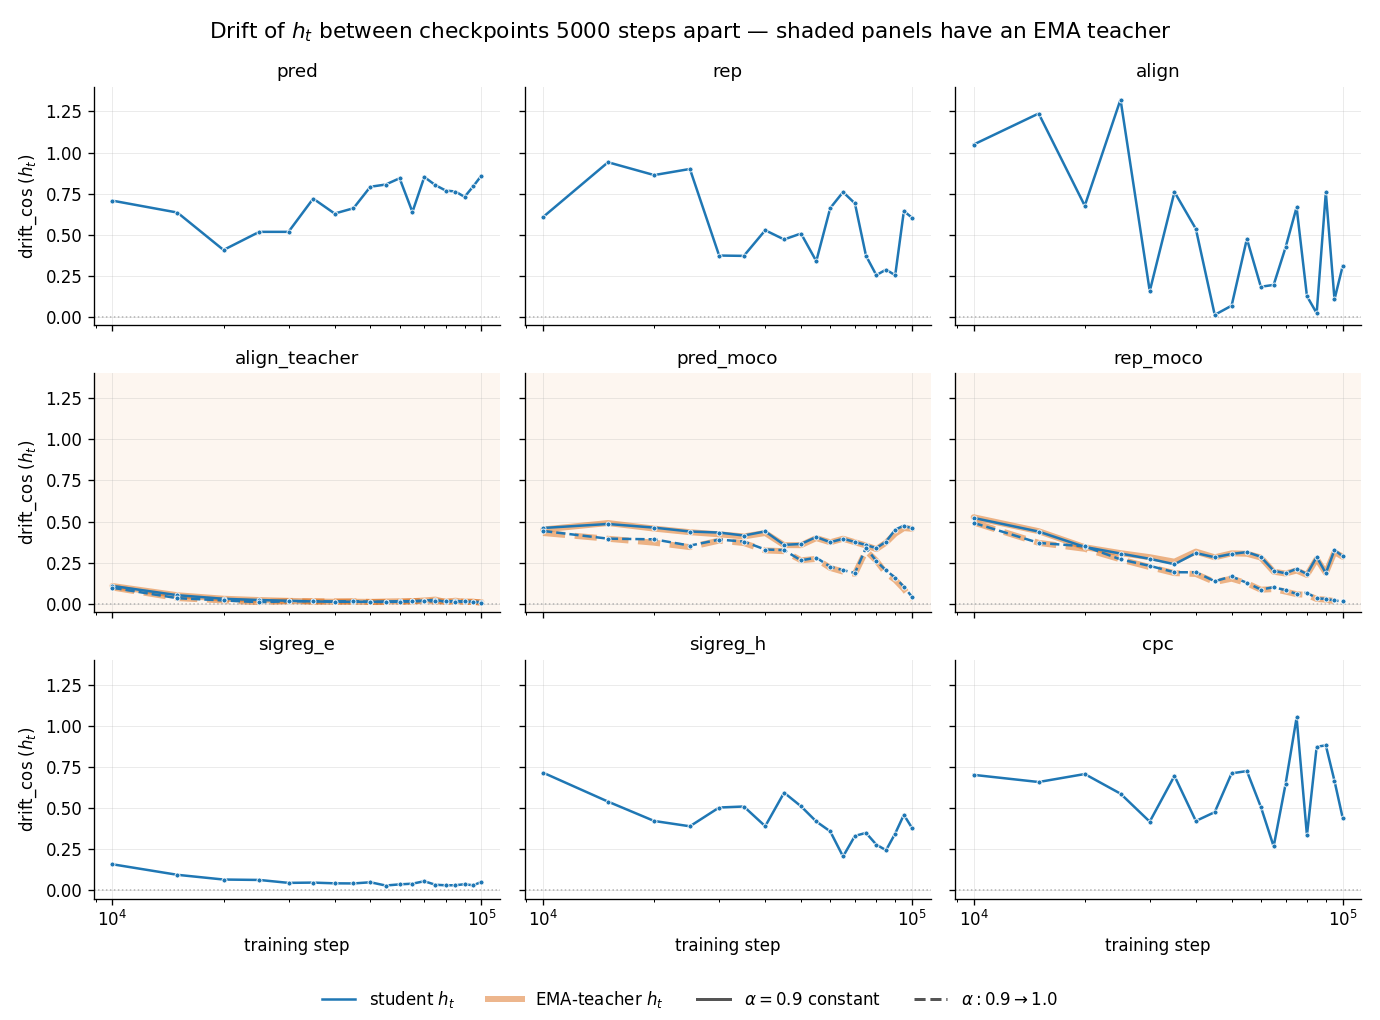
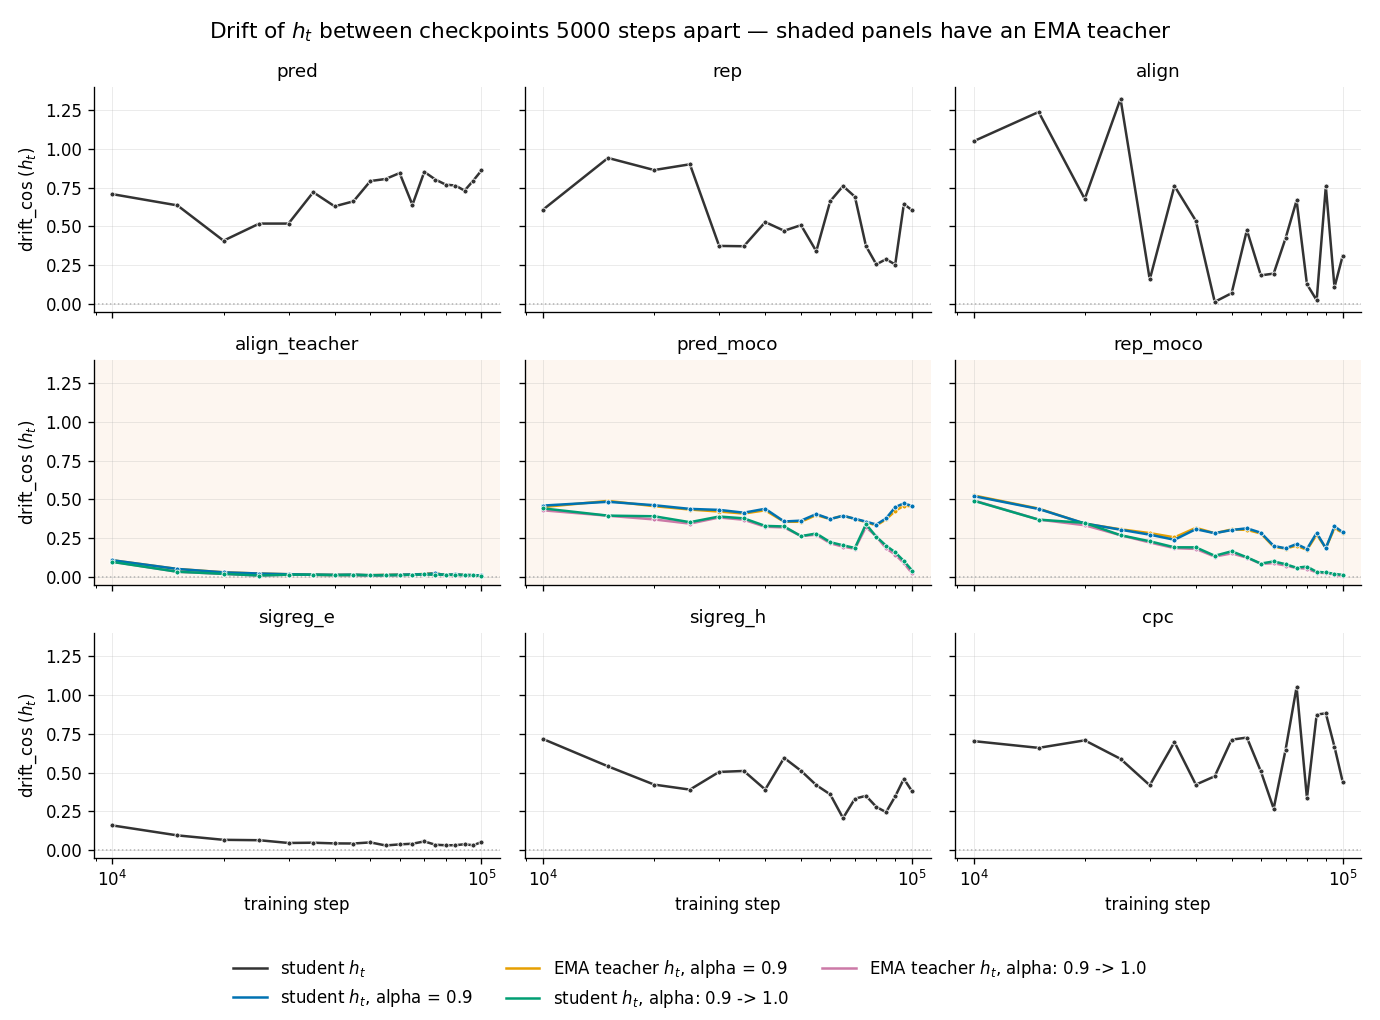
report(#388): readable headline figure, headline first, MoCo deltas on the named metric

diff --git a/experiments/2026-08-01_align_teacher_ema_schedule/scripts/make_plots.py b/experiments/2026-08-01_align_teacher_ema_schedule/scripts/make_plots.py
@@ -21,7 +21,11 @@ ask for and the report does not carry:
                           L_align panels: both align arms sit within ~10%
                           of the collinear floor on the time axis.
 
-Encoding used everywhere: colour = which encoder (student / EMA
+Encoding in drift_headline.png: one colour per named series, so a curve
+is identified from a single legend row. No crossed colour/line-style
+encoding, no band-under-line drawing.
+
+Encoding in the other figures: colour = which encoder (student / EMA
 teacher), line style = the α schedule (solid = constant, dashed =
 0.9 -> 1.0).
 """
@@ -126,17 +130,45 @@ def legend_handles(alphas):
 
 
 def plot_headline(series, out_png):
+    # One named series = one colour = one legend row. Okabe-Ito palette,
+    # distinct under the three common colour-vision deficiencies and where
+    # curves overlap. Equal line weight everywhere: no curve is a backdrop
+    # for another.
+    # Drawing order = list order; the student of each pair goes last so it
+    # stays visible where the two coincide. The caption names those spans.
+    named = [
+        (("const_0.9", "teacher_h"), "#E69F00",
+         "EMA teacher $h_t$, alpha = 0.9"),
+        (("sched_0.9_1.0", "teacher_h"), "#CC79A7",
+         "EMA teacher $h_t$, alpha: 0.9 -> 1.0"),
+        (("const_0.9", "student_h"), "#0072B2", "student $h_t$, alpha = 0.9"),
+        (("sched_0.9_1.0", "student_h"), "#009E73",
+         "student $h_t$, alpha: 0.9 -> 1.0"),
+    ]
+    legend_order = [2, 0, 3, 1]
+    solo_color, solo_label = "#333333", "student $h_t$"
+    kw = dict(lw=1.5, linestyle="-", marker="o", ms=3.0,
+              markeredgecolor="white", markeredgewidth=0.5)
+
     fig, axs = plt.subplots(3, 3, figsize=(11.5, 8.5), sharey=True,
                             sharex=True)
     axs = axs.ravel()
     for ax, arm in zip(axs, ARMS):
         ax.axhline(0.0, color="#b0b0b0", linestyle=":", linewidth=0.9)
-        for alpha, latent, pts in curves(series, arm, "adjacent"):
-            ax.plot([p[0] for p in pts], [p[1] for p in pts],
-                    color=COLOR[latent], linestyle=STYLE[alpha],
-                    **LATENT_KW[latent])
+        pts_of = {(a, l): p for a, l, p in curves(series, arm, "adjacent")}
         if arm in TEACHER_ARMS:
+            for z, (key, color, _) in enumerate(named):
+                pts = pts_of.get(key, [])
+                if not pts:
+                    print(f"  (missing {arm} {key})")
+                    continue
+                ax.plot([p[0] for p in pts], [p[1] for p in pts],
+                        color=color, zorder=2 + z, **kw)
             ax.set_facecolor("#fdf6f0")
+        else:
+            for pts in pts_of.values():
+                ax.plot([p[0] for p in pts], [p[1] for p in pts],
+                        color=solo_color, zorder=3, **kw)
         ax.set_title(arm, fontsize=11)
         ax.set_ylim(-0.05, 1.40)
         style_axes(ax, "drift_cos ($h_t$)")
@@ -145,12 +177,14 @@ def plot_headline(series, out_png):
     for i, ax in enumerate(axs):
         if i % 3:
             ax.set_ylabel("")
-    fig.legend(handles=legend_handles(["const_0.9", "sched_0.9_1.0"]),
-               loc="lower center", ncol=4, frameon=False, fontsize=10,
-               bbox_to_anchor=(0.5, -0.005))
+    handles = [Line2D([], [], color=solo_color, lw=1.5, label=solo_label)]
+    handles += [Line2D([], [], color=named[i][1], lw=1.5, label=named[i][2])
+                for i in legend_order]
+    fig.legend(handles=handles, loc="lower center", ncol=3, frameon=False,
+               fontsize=10, bbox_to_anchor=(0.5, -0.005))
     fig.suptitle("Drift of $h_t$ between checkpoints 5000 steps apart "
                  "— shaded panels have an EMA teacher", fontsize=13)
-    fig.tight_layout(rect=(0, 0.045, 1, 1))
+    fig.tight_layout(rect=(0, 0.085, 1, 1))
     fig.savefig(out_png, dpi=120)
     print(f"wrote {out_png}")
 

diff --git a/experiments/2026-08-01_align_teacher_ema_schedule/align_teacher_ema_schedule.md b/experiments/2026-08-01_align_teacher_ema_schedule/align_teacher_ema_schedule.md
@@ -6,18 +6,27 @@ from 1.0715 to 0.0531. Both align arms finish within 7% and 16% of the
 dimension-usage floor along the time axis, so that low drift is measured on a
 representation with almost nothing left to rotate.
 
-![L_align with the teacher as target](plots/align_fix.png)
+![Drift between checkpoints 5000 steps apart](plots/drift_headline.png)
 
 *`drift_cos` = 1 − mean cosine similarity between two sets of encoder latents
 `h_t`, on one fixed probe batch: a single ARMA draw of 64 series, 1024 raw
 timesteps, seed 20260722, shared by every checkpoint of every run. 0 means the
-representation did not move, 1 means orthogonal. Checkpoints 5000 steps apart,
-α = 0.9 constant, where α is the weight the teacher keeps on itself in
-`θ_teacher ← α·θ_teacher + (1 − α)·θ_student`, applied after every optimizer
-step. Purple: the earlier `align` arm, whose target was the student's own
-stop-gradient `sg(h_{t+1})`. Blue: `align_teacher`, target = EMA teacher
-`h_{t+1}`. The orange band is the EMA-teacher latent of the same run; it lies
-under the student curve.*
+representation did not move, 1 means orthogonal. Here each checkpoint is
+compared to its predecessor 5000 steps earlier. α is the weight the teacher
+keeps on itself in `θ_teacher ← α·θ_teacher + (1 − α)·θ_student`, applied after
+every optimizer step. One panel per loss term, same axes for all nine. Shaded
+panels have an EMA teacher and carry four named curves; the other six have no
+teacher and carry one. In every teacher panel the EMA-teacher curve lies under
+its student curve for the whole run, within a line width: orange under blue for
+α = 0.9, pink under green for the schedule. The two α settings separate from
+about 40k on `pred_moco` and `rep_moco`, and stay together on `align_teacher`.*
+
+![L_align with the teacher as target](plots/align_fix.png)
+
+*Same probe and same 5000-step spacing, α = 0.9 constant. Purple: the earlier
+`align` arm, whose target was the student's own stop-gradient `sg(h_{t+1})`.
+Blue: `align_teacher`, target = EMA teacher `h_{t+1}`. The orange band is the
+EMA-teacher latent of the same run; it lies under the student curve.*
 
 ![Dimension usage](plots/supporting/dim_usage.png)
 
@@ -34,13 +43,7 @@ One seed per arm and one probe batch, so every ratio here is a single
 measurement without a spread. No downstream forecasting evaluation was run in
 this experiment.
 
-## All arms, same probe
-
-![Drift between checkpoints 5000 steps apart](plots/drift_headline.png)
-
-*One panel per loss term, student `h_t` in blue, EMA-teacher `h_t` as the orange
-band beneath it. Shaded panels have a teacher. Solid is α = 0.9 constant,
-dashed is α: 0.9 → 1.0.*
+## Same probe, other windows
 
 ![Cumulative drift away from the 5k checkpoint](plots/cumulative_drift.png)
 
@@ -63,8 +66,9 @@ Removing the global feature-axis rotation removes nearly all of the raw drift.
 On `align_teacher` the late-window raw `drift_cos` reads 0.0123 with constant α
 and 0.0120 with the schedule, on a representation that uses one direction out
 of 64, so the schedule has almost nothing to act on. On the MoCo arms the
-schedule moves `drift_cos_aligned` by 0.0047 (`rep_moco`) and 0.0031
-(`pred_moco`); both are single-seed differences that no spread supports.
+schedule lowers late-window mean `drift_cos_aligned`, from 0.2942 to 0.1111
+(`pred_moco`) and from 0.1240 to 0.0258 (`rep_moco`); both are single-seed
+differences that no spread supports.
 
 ## What this measures
 
